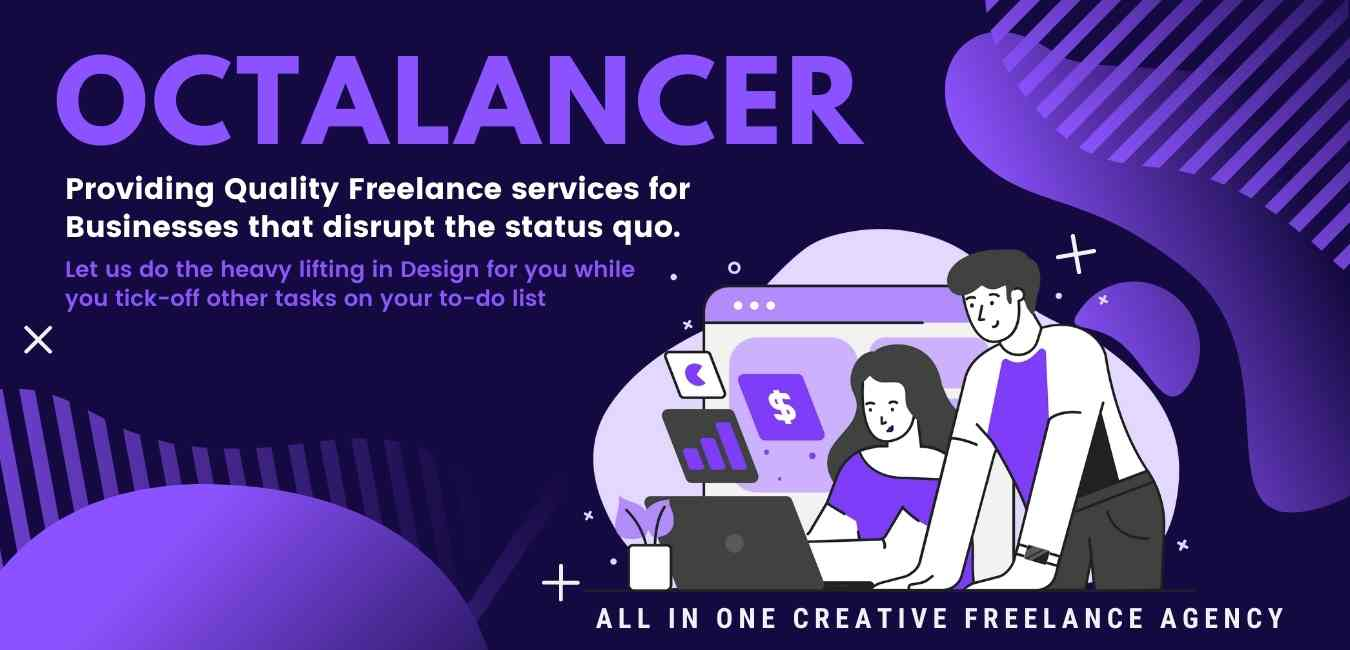
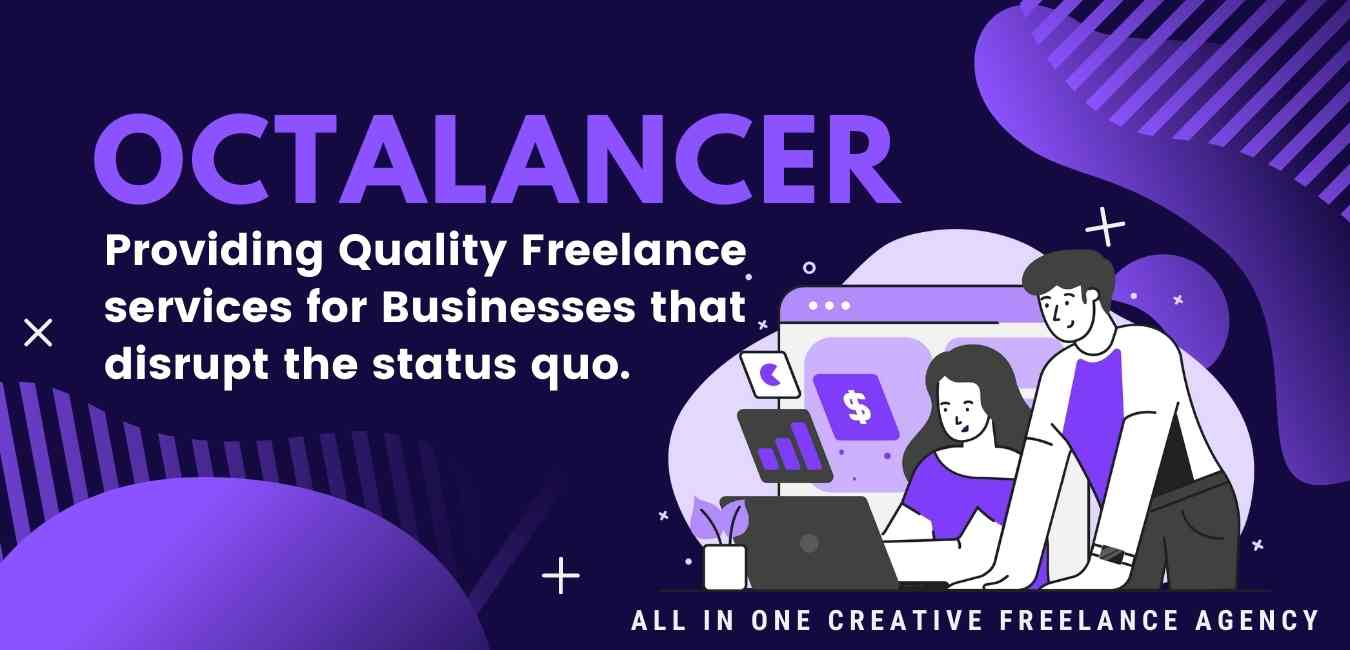
so image update

diff --git a/index.html b/index.html
@@ -12,7 +12,7 @@
   
     <meta property="og:title" content="Octalancer">
     <meta property="og:description" content="All in one freelance Agency">
-    <meta property="og:image" content="https://www.octalancer.com/assets/img/octaseo1.jpg">
+    <meta property="og:image" content="https://www.octalancer.com/assets/img/octaseo2.jpg">
     <meta property="og:url" content="https://www.octalancer.com">
 	<meta name="language" content="EN">
     <meta name="twitter:card" content="summary_large_image">
